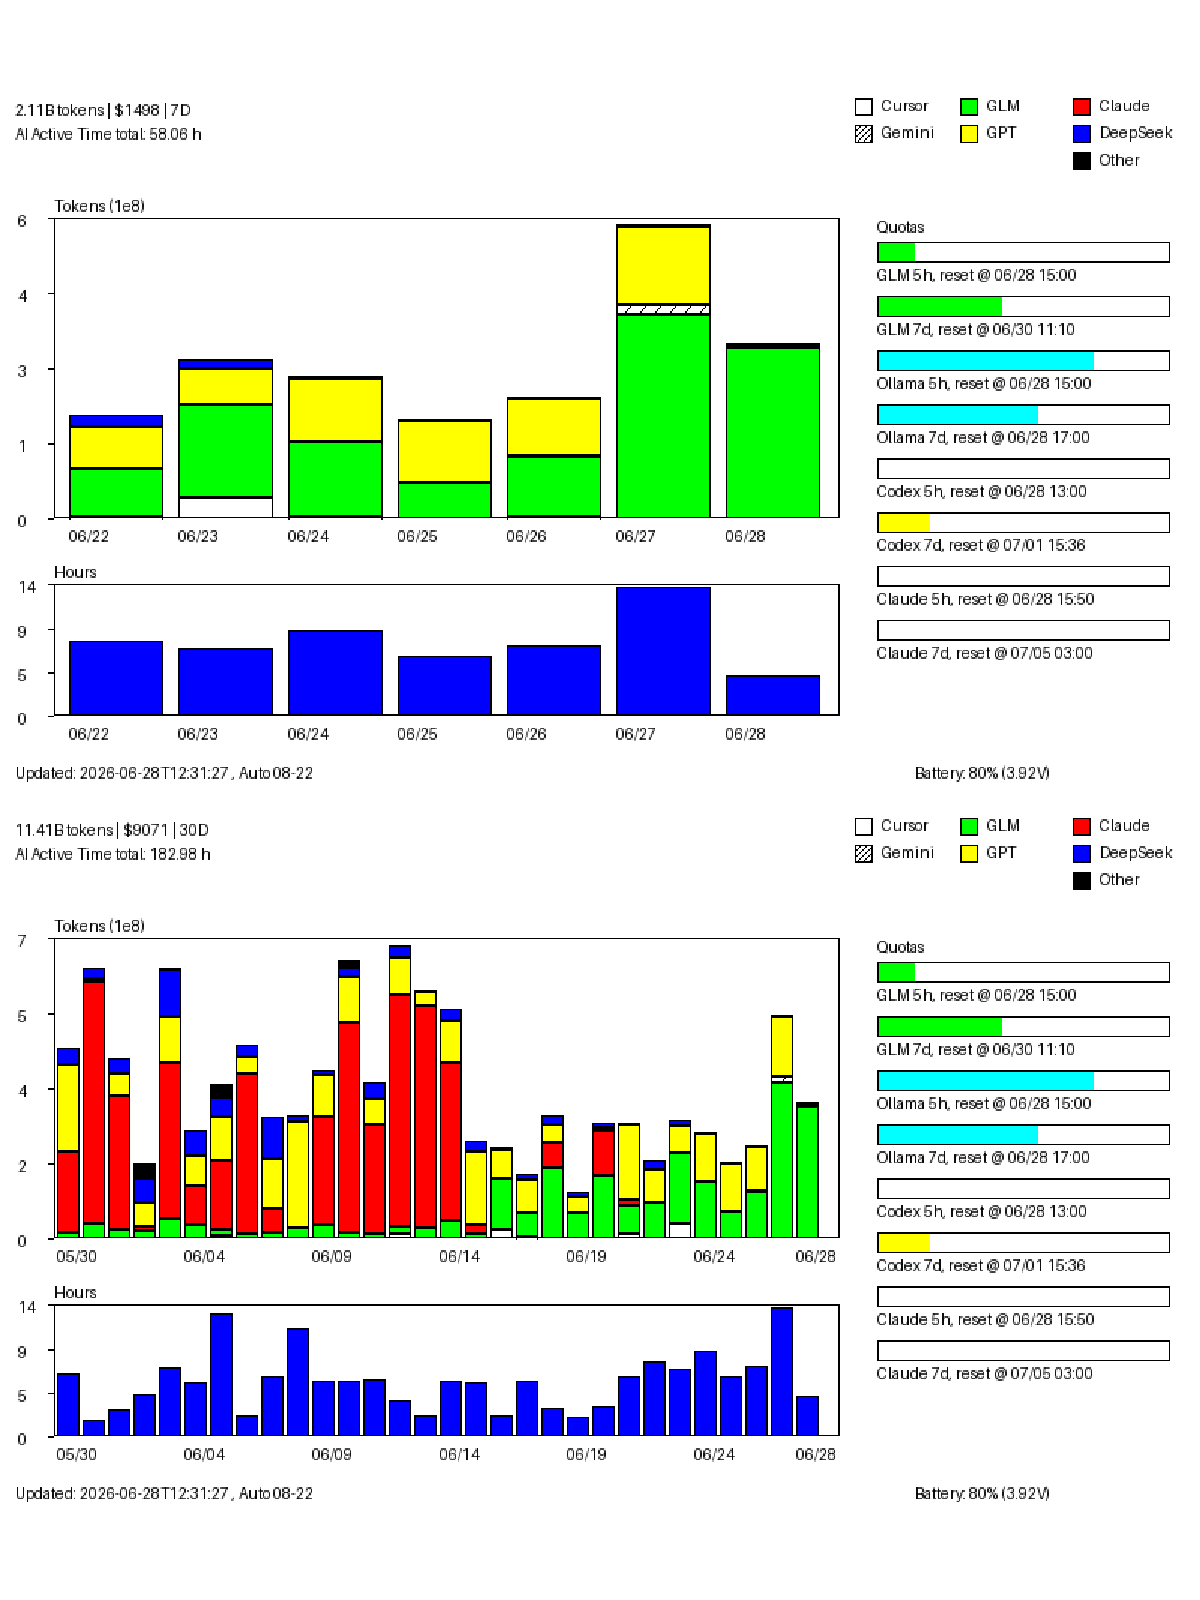
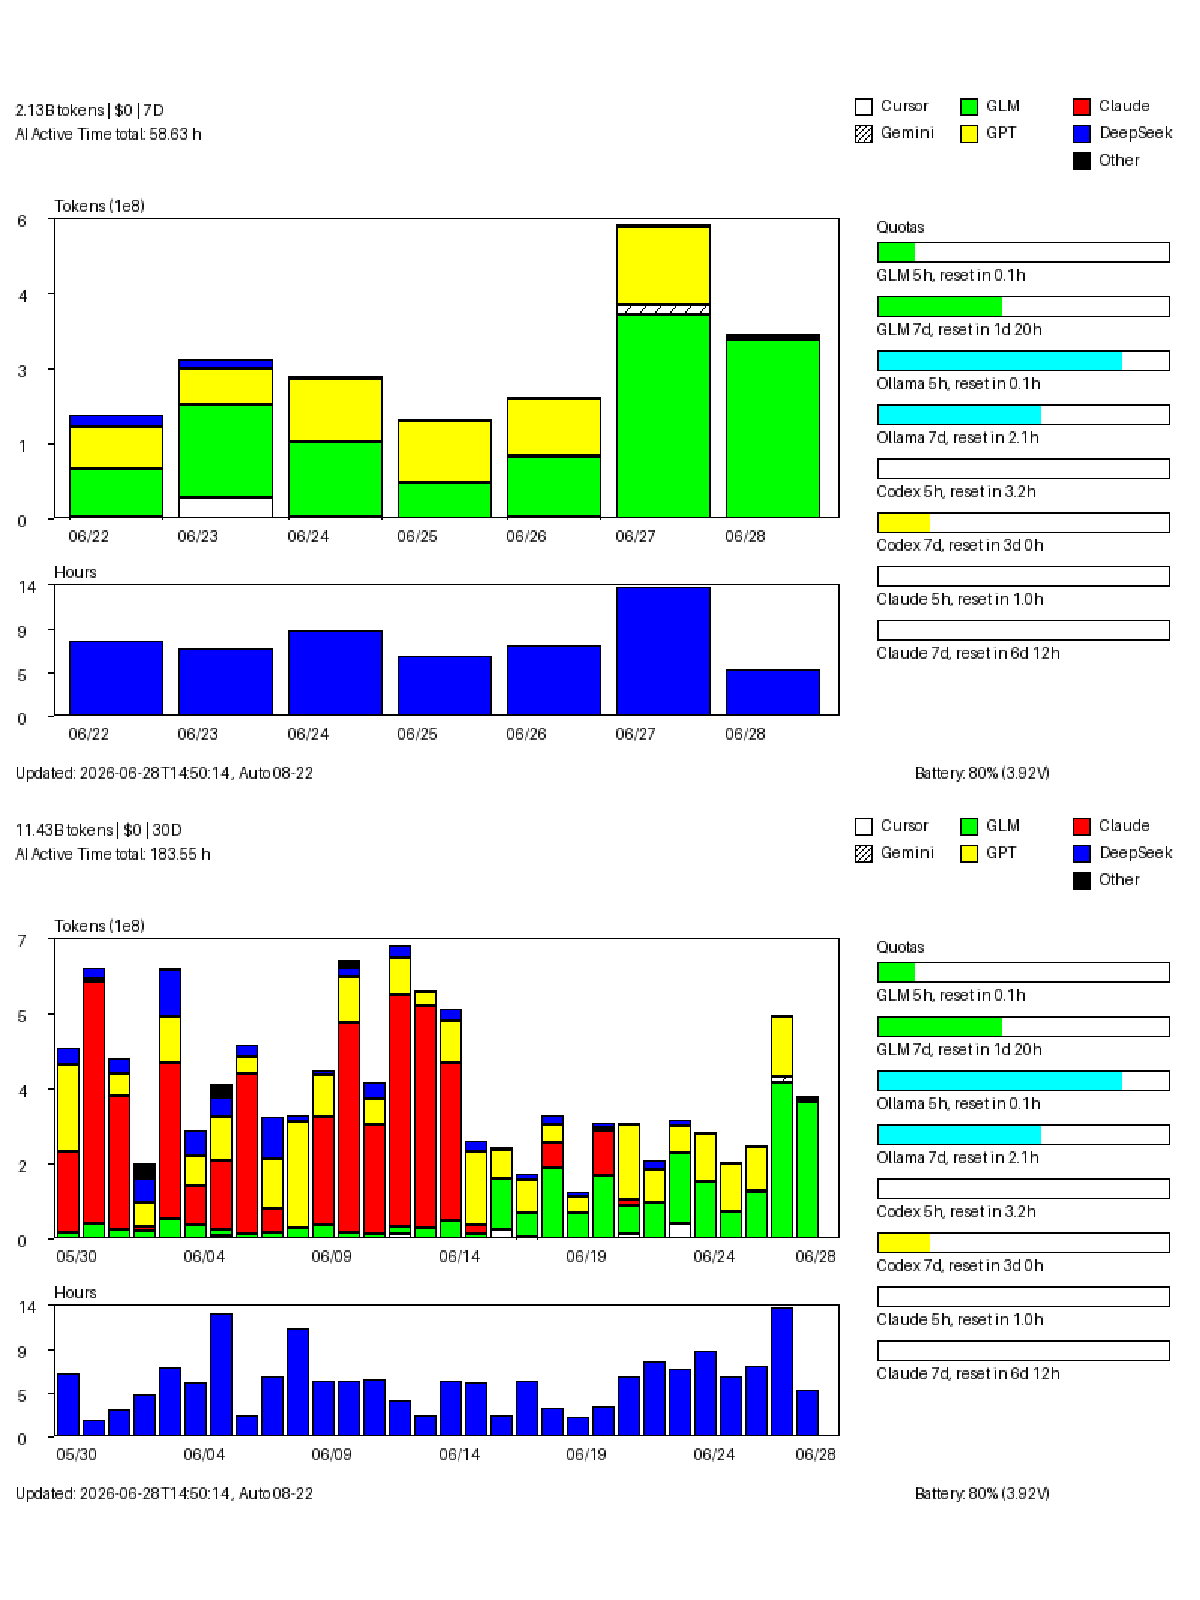
Change reset label to countdown format: 'reset in Xd Yh' or 'reset in X.Yh'
Replace 'reset @ MM/DD HH:MM' with a live countdown computed from the
NTP-synchronized local clock. When days > 0: 'reset in 3d 5h' (hours rounded
to integer). When less than a day: 'reset in 2.5h' (one decimal place).
Returns '' when the reset time is in the past.

Updated in firmware (dashboard_logic.h), simulator (eink_simulator.py), and
firmware_logic.py mirror. Tests cover hours-with-decimal, days+hours, past
time, and short input. E-ink README updated. Preview regenerated.

diff --git a/eink/e1002/dashboard_logic.h b/eink/e1002/dashboard_logic.h
@@ -161,17 +161,46 @@ inline String providerDisplayName(const String& provider) {
   return provider;
 }
 
-// Reset label: "reset @ MM/DD HH:MM" from an ISO timestamp, or "" when empty.
+// Reset label: "reset in Xd Yh" or "reset in X.Yh" from an ISO timestamp.
+// Requires NTP-synchronized local time. Returns "" when the timestamp is too
+// short or already in the past.
 inline String compactResetLabel(const String& iso) {
   if (iso.length() < 16) {
     return "";
   }
-  // ISO local form "YYYY-MM-DDTHH:MM:SS" -> "reset @ MM/DD HH:MM"
-  String out = "reset @ ";
-  out += iso.substring(5, 7);
-  out += "/";
-  out += iso.substring(8, 10);
-  out += " ";
-  out += iso.substring(11, 16);
+  // Parse the ISO local timestamp into a time_t.
+  int year = iso.substring(0, 4).toInt();
+  int month = iso.substring(5, 7).toInt();
+  int day = iso.substring(8, 10).toInt();
+  int hour = iso.substring(11, 13).toInt();
+  int minute = iso.substring(14, 16).toInt();
+  struct tm tm_parts = {0};
+  tm_parts.tm_year = year - 1900;
+  tm_parts.tm_mon = month - 1;
+  tm_parts.tm_mday = day;
+  tm_parts.tm_hour = hour;
+  tm_parts.tm_min = minute;
+  time_t reset_epoch = mktime(&tm_parts);
+  time_t now_epoch = time(nullptr);
+  long diff_sec = (long)(reset_epoch - now_epoch);
+  if (diff_sec <= 0) {
+    return "";
+  }
+  long total_minutes = diff_sec / 60;
+  long total_hours = total_minutes / 60;
+  long days = total_hours / 24;
+  long hours = total_hours % 24;
+  String out = "reset in ";
+  if (days > 0) {
+    out += String(days);
+    out += "d ";
+    out += String(hours);
+    out += "h";
+  } else {
+    // No days: show hours with one decimal place.
+    double precise_hours = (double)total_minutes / 60.0;
+    out += String(precise_hours, 1);
+    out += "h";
+  }
   return out;
 }

diff --git a/firmware_logic.py b/firmware_logic.py
@@ -40,14 +40,35 @@ def compact_date_label(iso_date: str) -> str:
     return iso_date
 
 
-def compact_reset_label(iso: str) -> str:
-    """Reset label 'reset @ MM/DD HH:MM' from a local ISO timestamp.
+def compact_reset_label(iso: str, now: datetime | None = None) -> str:
+    """Reset label 'reset in Xd Yh' or 'reset in X.Yh' from a local ISO timestamp.
 
-    Mirrors the e-ink firmware's compactResetLabel.
+    Mirrors the e-ink firmware's compactResetLabel. When days > 0, hours are
+    rounded to integer. When days == 0, hours are shown with one decimal place.
+    Returns '' when the timestamp is too short or already in the past.
     """
     if len(iso) < 16:
         return ''
-    return f'reset @ {iso[5:7]}/{iso[8:10]} {iso[11:16]}'
+    if now is None:
+        now = datetime.now()
+    try:
+        reset_dt = datetime.fromisoformat(iso.replace('Z', '+00:00'))
+        if reset_dt.tzinfo is not None:
+            reset_dt = reset_dt.astimezone().replace(tzinfo=None)
+    except ValueError:
+        return ''
+    diff = reset_dt - now
+    total_seconds = diff.total_seconds()
+    if total_seconds <= 0:
+        return ''
+    total_minutes = int(total_seconds // 60)
+    total_hours = total_minutes // 60
+    days = total_hours // 24
+    hours = total_hours % 24
+    if days > 0:
+        return f'reset in {days}d {hours}h'
+    precise_hours = total_minutes / 60.0
+    return f'reset in {precise_hours:.1f}h'
 
 
 def provider_display_name(provider: str) -> str:

diff --git a/eink_simulator.py b/eink_simulator.py
@@ -153,10 +153,36 @@ def compact_date_label(iso_date: str) -> str:
     return iso_date
 
 
-def compact_reset_label(iso: str) -> str:
+def compact_reset_label(iso: str, now=None) -> str:
+    """Reset label 'reset in Xd Yh' or 'reset in X.Yh' from a local ISO timestamp.
+
+    Mirrors the e-ink firmware's compactResetLabel. When days > 0, hours are
+    rounded to integer. When days == 0, hours are shown with one decimal place.
+    Returns '' when the timestamp is too short or already in the past.
+    """
+    from datetime import datetime as _dt
     if len(iso) < 16:
         return ""
-    return f"reset @ {iso[5:7]}/{iso[8:10]} {iso[11:16]}"
+    if now is None:
+        now = _dt.now()
+    try:
+        reset_dt = _dt.fromisoformat(iso.replace("Z", "+00:00"))
+        if reset_dt.tzinfo is not None:
+            reset_dt = reset_dt.astimezone().replace(tzinfo=None)
+    except ValueError:
+        return ""
+    diff = reset_dt - now
+    total_seconds = diff.total_seconds()
+    if total_seconds <= 0:
+        return ""
+    total_minutes = int(total_seconds // 60)
+    total_hours = total_minutes // 60
+    days = total_hours // 24
+    hours = total_hours % 24
+    if days > 0:
+        return f"reset in {days}d {hours}h"
+    precise_hours = total_minutes / 60.0
+    return f"reset in {precise_hours:.1f}h"
 
 
 def provider_display_name(provider: str) -> str:

diff --git a/tests/test_firmware_logic.py b/tests/test_firmware_logic.py
@@ -85,8 +85,25 @@ def test_compact_date_label_keeps_non_iso_text():
     assert compact_date_label("today") == "today"
 
 
-def test_compact_reset_label_shortens_iso_timestamp():
-    assert compact_reset_label("2026-06-28T15:00:09") == "reset @ 06/28 15:00"
+def test_compact_reset_label_formats_hours_with_decimal():
+    from datetime import datetime, timedelta
+    now = datetime(2026, 6, 28, 12, 0)
+    reset = datetime(2026, 6, 28, 14, 30)  # 2.5 hours later
+    assert compact_reset_label(reset.isoformat(), now) == "reset in 2.5h"
+
+
+def test_compact_reset_label_formats_days_and_hours():
+    from datetime import datetime, timedelta
+    now = datetime(2026, 6, 28, 12, 0)
+    reset = datetime(2026, 7, 1, 15, 0)  # ~3 days 3 hours later
+    assert compact_reset_label(reset.isoformat(), now) == "reset in 3d 3h"
+
+
+def test_compact_reset_label_returns_empty_for_past_time():
+    from datetime import datetime
+    now = datetime(2026, 6, 28, 12, 0)
+    reset = datetime(2026, 6, 28, 10, 0)  # 2 hours ago
+    assert compact_reset_label(reset.isoformat(), now) == ""
 
 
 def test_compact_reset_label_returns_empty_for_short_input():

diff --git a/tests/test_eink_simulator.py b/tests/test_eink_simulator.py
@@ -89,8 +89,18 @@ def test_simulator_provider_color_includes_ollama():
     assert provider_color('codex') == TFT_YELLOW
 
 
-def test_simulator_compact_reset_label_formats_iso():
-    assert compact_reset_label('2026-06-28T22:00:00Z') == 'reset @ 06/28 22:00'
+def test_simulator_compact_reset_label_formats_hours():
+    from datetime import datetime
+    now = datetime(2026, 6, 28, 12, 0)
+    reset = datetime(2026, 6, 28, 14, 30)
+    assert compact_reset_label(reset.isoformat(), now) == "reset in 2.5h"
+
+
+def test_simulator_compact_reset_label_formats_days():
+    from datetime import datetime
+    now = datetime(2026, 6, 28, 12, 0)
+    reset = datetime(2026, 7, 1, 15, 0)
+    assert compact_reset_label(reset.isoformat(), now) == "reset in 3d 3h"
 
 
 def test_simulator_parse_dashboard_payload_reads_quotas():

diff --git a/eink/e1002/README.md b/eink/e1002/README.md
@@ -69,7 +69,7 @@ The screen is split into two vertical zones:
 
 - Legend in the top-right header (y=12..48): colored 12x12 squares with labels
 - `Quotas` header at y=92
-- One horizontal usage bar per quota window, stacked vertically. Each bar is 14px tall with a filled colored portion (GLM=green, Ollama=cyan, Codex=yellow) and a black outline. Below each bar, one line of text: `<Provider> <label>, reset @ MM/DD HH:MM`
+- One horizontal usage bar per quota window, stacked vertically. Each bar is 14px tall with a filled colored portion (GLM=green, Ollama=cyan, Codex=yellow, Claude=red) and a black outline. Below each bar, one line of text: `<Provider> <label>, reset in Xd Yh` (or `reset in X.Yh` when less than a day remains). The reset countdown is computed from the NTP-synchronized local clock.
 - Labels are compact: `5h` for 5-hour windows, `7d` for weekly windows
 - Provider order: GLM, Ollama, Codex
 - When no quota data is present the panel shows `--`
